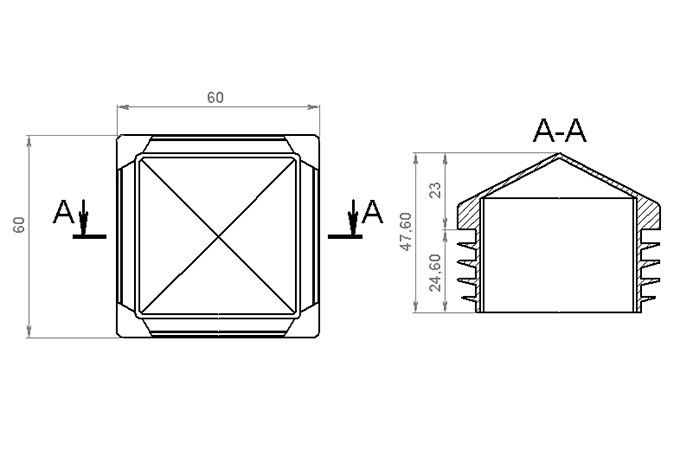
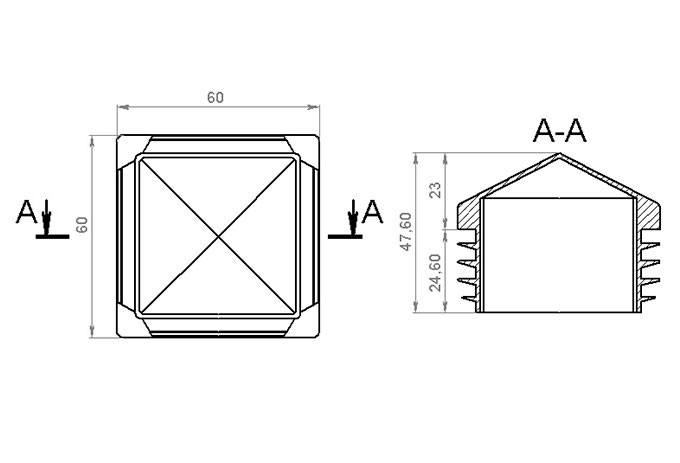
Updated page for inner pyramidal cap. Fixed drawing.

diff --git a/zaglushka-vnutrennyaya-domik.html b/zaglushka-vnutrennyaya-domik.html
@@ -1,7 +1,7 @@
 <!DOCTYPE html>
 <html lang="ru">
 <head>
-	<title>Заглушка-домик внутренняя 60х60 мм из пластмассы. Центр ВТО</title>
+	<title>Заглушка внутренняя домик (пирамидка) пластмассовая 60х60 мм</title>
 
 	<meta charset="utf-8" />
 	<meta http-equiv="X-UA-Compatible" content="IE=edge">
@@ -9,10 +9,9 @@
 	<meta name="viewport" content="width=device-width, initial-scale=1">
 
 	<meta name="keywords" content="пластиковая пластмассовая внутренняя заглушка 60 на 60х60 для забор ограда труба столб профильная" />
-	<meta name="description" content="Пластиковая внутренняя заглушка-домик 60х60 для труб, оград, заборов. Оптовые цены | +7 (920) 968-02-56 | sales@z60x60.ru | Прочная износостойкая продукция" />
+	<meta name="description" content="Пластиковая внутренняя заглушка домик 60х60 для декорирования и защиты труб, оград, заборов и прочих металлоконструкций" />
 
 	<link href="css/fw.min.css?v=1.2" rel="stylesheet" />
-	<link href="css/site.min.css?v=1.2" rel="stylesheet"/>
 	<link href="css/site2.min.css?v=1.2" rel="stylesheet" />
 
 	<link rel="icon" type="image/x-icon" href="favicon.ico?v=1.2" />
@@ -86,143 +85,107 @@
 			</nav>
 		</header>
 
-		<main>
-			<div id="bg1" data-0p="background-position: 0px 0px;" data-35p="background-position: 180px -2000px;" data-100p="background-position: 470px -4000px;">
-				<div id="bg2" data-0p="background-position: 0px 0px;" data-35p="background-position: 550px -1600px;" data-100p="background-position: 1000px -3500px;">
-					<div id="bg3" data-0p="background-position: 0px 0px;" data-35p="background-position: 350px -850px;" data-100p="background-position: 720px -2800px;">
-						<div id="skrollr-body" class="container">
-							<div class="skrollr-body">
-								<div class="row">
-									<div class="col-lg-12 col-md-12 col-sm-12 hidden-xs">
-										<img src="img/banner1.jpg" class="img-responsive img-rounded banner" alt="" />
-									</div>
-								</div>
+		<main class="container">
+			<div class="row">
+				<div class="col-sm-12 hidden-xs">
+					<div class="carousel slide banner" data-ride="carousel" data-interval="9000">
+						<div class="carousel-inner">
+							<div class="item active">
+								<img src="img/banner1.jpg" alt="">
+							</div>
+							<div class="item">
+								<img src="img/banner2.jpg" alt="">
+							</div>
+						</div>
+					</div>
+				</div>
+			</div>
 
-								<div class="row">
-									<nav class="col-lg-3 col-md-3 col-sm-3 hidden-xs">
-										<ul class="nav-list">
-											<li>
-												<a href="zaglushka-vneshnyaya-domik.html" class="btn btn-default">
-													<img src="img/btn_outer_pyramid_200x150.png" alt="Внешняя пластиковая заглушка-домик для профильных труб. Картинка на кнопке" class="img-responsive" />
-													<p>Узнать подробнее</p>
-												</a>
-											</li>
-											<li>
-												<a href="zaglushka-vnutrennyaya-domik.html" class="btn btn-default">
-													<img src="img/btn_inner_pyramid_200x150.png" alt="Внутренняя пластмассовая заглушка-домик для забора. Картинка на кнопке" class="img-responsive" />
-													<p>Узнать подробнее</p>
-												</a>
-											</li>
-											<li>
-												<a href="zaglushka-vnutrennyaya.html" class="btn btn-default">
-													<img src="img/btn_inner_new_200x150.png" alt="Внутренняя пластиковая заглушка для столбов. Картинка на кнопке" class="img-responsive" />
-													<p>Узнать подробнее</p>
-												</a>
-											</li>
-											<li>
-												<a href="zaglushka-vneshnyaya.html" class="btn btn-default">
-													<img src="img/btn_outer_simple_200x150_cyan.png" alt="Внешняя пластмассовая заглушка для оград. Картинка на кнопке" class="img-responsive" />
-													<p>Узнать подробнее</p>
-												</a>
-											</li>
-										</ul>
-									</nav>
-									<div class="col-lg-9 col-md-9 col-sm-9 col-xs-12">
-										<div class="well well-sm">
-											<div class="product-details">
-												<div class="row">
-													<div class="col-lg-12 col-md-12 col-sm-12 col-xs-12">
-														<h2 class="text-center">Внутренняя заглушка - домик 60 х 60</h2>
-													</div>
-												</div>
-												<div class="row">
-													<div class="col-lg-5 col-md-5 col-sm-12 col-xs-12">
-														<ul>
-															<li>Изготавливаются из высококачественного пластика с конструкционными присадками</li>
-															<li>Эстетический внешний вид</li>
-															<li>Устойчивость к УФ излучению, низким температурам и влаге</li>
-															<li>Возможен подбор цвета</li>
-															<li>Возможна металлизация для придания дополнительного блеска поверхности</li>
-														</ul>
-													</div>
-													<div class="col-lg-7 col-md-7 col-sm-12 col-xs-12">
-														<div id="photos" class="carousel slide" data-ride="carousel" data-interval="8000">
-															<ol class="carousel-indicators">
-																<li data-target="#photos" data-slide-to="0" class="active"></li>
-																<li data-target="#photos" data-slide-to="1"></li>
-																<li data-target="#photos" data-slide-to="2"></li>
-															</ol>
-
-															<div class="carousel-inner">
-																<div class="item active">
-																	<img src="img/60x60_inner_pyramid2_1.jpg" alt="Фотография внутренней заглушки-домик 60х60">
-																</div>
-																<div class="item">
-																	<img src="img/60x60_inner_pyramid2_2.jpg" alt="Фотография внутренней заглушки-домик 60х60">
-																</div>
-																<div class="item">
-																	<img src="img/60x60_inner_pyramid2_3.jpg" alt="Фотография внутренней заглушки-домик 60х60">
-																</div>
-															</div>
-
-															<a class="left carousel-control" href="#photos" data-slide="prev">
-																<span class="glyphicon glyphicon-chevron-left"></span>
-															</a>
-															<a class="right carousel-control" href="#photos" role="button" data-slide="next">
-																<span class="glyphicon glyphicon-chevron-right"></span>
-															</a>
-														</div>
-													</div>
-												</div>
-												<div class="row">
-													<div class="col-lg-12 col-md-12 col-sm-12 col-xs-12">
-														<div class="product-3d hidden">
-															<p class="text-justify">
-																Для улучшения внешнего вида верхняя часть изделия выполнена в виде «домика» с художественной шагренью.
-																На стенках имеются ребра крепления с коническим схождением для более плотной надежной посадки. Предназначены для труб с различной толщиной стенки.
-															</p>
-															<div class="embed-responsive embed-responsive-16by9">
-																<iframe id="frame3d" srcTarget="view360.html?obj=60x60_inner_pyramid&v=1.2" class="embed-responsive-item"></iframe>
-															</div>
-															<div class="product-handle text-center">
-																<span id="toggle" class="fa fa-pause-circle"></span>
-																<span id="eyedropper" class="fa fa-eyedropper"></span>
-															</div>
-														</div>
-													</div>
-												</div>
-												<div class="row">
-													<div class="col-lg-12 col-md-12 col-sm-12 col-xs-12">
-														<p class="text-justify">
-															Пластмассовая внутренняя заглушка для труб, оград, заборов, столбов с внешними размерами 60 на 60 мм (6х6 сантиметров).
-															Благодаря конструкции идеально защищает трубу от попадания влаги, сора и прочих загрязнителей.
-														</p>
-													</div>
-												</div>
-												<div class="row">
-													<div class="col-lg-12 col-md-12 col-sm-12  col-xs-12">
-														<img src="img/60x60_inner_pyramid2_scheme.jpg" alt="Схема внутренней заглушки-домик 60х60" class="img-responsive product-scheme" />
-													</div>
-												</div>
-												<div class="row">
-													<div class="col-lg-12 col-md-12 col-sm-12 col-xs-12">
-														<p class="text-justify">
-															Внешний вид внутренней заглушки на трубе и заборе.
-														</p>
-													</div>
-												</div>
-												<div class="row">
-													<div class="col-lg-6 col-md-6 col-sm-12 col-xs-12">
-														<img src="img/60x60_inner_pyramid2_pipe.jpg" alt="Вид внутренней заглушки-домик 60х60 на трубе" class="img-responsive product-onpipe" />
-													</div>
-													<div class="col-lg-6 col-md-6 col-sm-12 col-xs-12">
-														<img src="img/60x60_inner_pyramid_fence.jpg" alt="Вид внутренней заглушки-домик 60х60 на заборе" class="img-responsive product-onfence" />
-													</div>
-												</div>
-											</div>
+			<div class="row">
+				<div class="col-xs-12">
+					<div class="content-container-titled">
+						<div class="page-header">
+							<h1 class="text-center">Внутренняя заглушка домик 60х60 мм</h1>
+						</div>
+						<div class="row">
+							<div class="col-md-7">
+								<p class="lead">Изделие предназначено для защиты труб от коррозии, придания конструкции законченного эстетического внешнего вида и снижения травмоопасности острых краев труб.</p>
+								<ul>
+									<li>Изготавливается из высококачественного пластика с конструкционными присадками</li>
+									<li>Эстетический внешний вид</li>
+									<li>Устойчивость к УФ излучению, низким температурам и влаге</li>
+									<li>Возможен подбор цвета</li>
+									<li>Возможна металлизация для придания дополнительного блеска поверхности</li>
+								</ul>
+							</div>
+							<div class="col-md-5">
+								<div id="photos" class="carousel slide" data-ride="carousel" data-interval="8000">
+									<ol class="carousel-indicators">
+										<li data-target="#photos" data-slide-to="0" class="active"></li>
+										<li data-target="#photos" data-slide-to="1"></li>
+										<li data-target="#photos" data-slide-to="2"></li>
+									</ol>
+									<div class="carousel-inner">
+										<div class="item active">
+											<img src="img/60x60_inner_pyramid2_1.jpg" alt="Фотография внутренней заглушки-домик 60х60">
+										</div>
+										<div class="item">
+											<img src="img/60x60_inner_pyramid2_2.jpg" alt="Фотография внутренней заглушки-домик 60х60">
+										</div>
+										<div class="item">
+											<img src="img/60x60_inner_pyramid2_3.jpg" alt="Фотография внутренней заглушки-домик 60х60">
 										</div>
 									</div>
+									<a class="left carousel-control" href="#photos" data-slide="prev">
+										<span class="glyphicon glyphicon-chevron-left"></span>
+									</a>
+									<a class="right carousel-control" href="#photos" role="button" data-slide="next">
+										<span class="glyphicon glyphicon-chevron-right"></span>
+									</a>
 								</div>
+							</div>
+						</div>
+						<h2 class="text-center">Чертеж и внешний вид изделия</h2>
+						<div class="row">
+							<div class="col-xs-12">
+								<p>
+									Пластиковая внешняя (наружная) заглушка предназначена оград, заборов, столбов с внешними размерами 60 на 60 мм (6х6 сантиметров).
+									Изделие подходит для труб с различной толщиной стенки и располагается внутри трубы.
+									Для улучшения внешнего вида верхняя часть изделия выполнена в виде «домика» с художественной шагренью.
+									Благодаря конструкции идеально защищает трубу от попадания влаги, сора и прочих загрязнителей.
+									На стенках имеются ребра крепления с коническим схождением для более плотной надежной посадки.
+									Далее вы можете оценить внешний вид наружной заглушки на трубе и заборе.
+								</p>
+							</div>
+							<div id="obj3d" class="col-md-offset-0 col-md-6 col-xs-offset-1 col-xs-10 item-data-scheme hidden">
+								<hr />
+								<h4 class="text-center">Трехмерное изображение</h4>
+								<div class="embed-responsive embed-responsive-16by9">
+									<iframe id="frame3d" data-src="view360.html?obj=60x60_inner_pyramid&v=1.2" class="embed-responsive-item"></iframe>
+								</div>
+								<div id="frame-handle" class="text-center">
+									<button id="toggle" class="btn btn-lg btn-default">
+										<span class="fa fa-pause-circle"></span>
+									</button>
+									<button id="eyedropper" class="btn btn-lg btn-default">
+										<span class="fa fa-eyedropper"></span>
+									</button>
+								</div>
+							</div>
+							<div class="col-md-6 col-xs-12 item-data-scheme">
+								<hr />
+								<h4 class="text-center">Чертеж</h4>
+								<img src="img/60x60_inner_pyramid2_scheme.jpg" alt="Схема внутренней заглушки-домик 60х60" class="img-responsive center-block" />
+							</div>
+							<div class="col-md-6 col-xs-12">
+								<hr />
+								<h4 class="text-center">Внешний вид на трубе</h4>
+								<img src="img/60x60_inner_pyramid2_pipe.jpg" alt="Вид внутренней заглушки-домик 60х60 на труб" class="img-responsive center-block" />
+							</div>
+							<div class="col-md-6 col-xs-12">
+								<hr />
+								<h4 class="text-center">Внешний вид на заборе</h4>
+								<img src="img/60x60_inner_pyramid_fence.jpg" alt="Вид внутренней заглушки-домик 60х60 на заборе" class="img-responsive center-block" />
 							</div>
 						</div>
 					</div>
